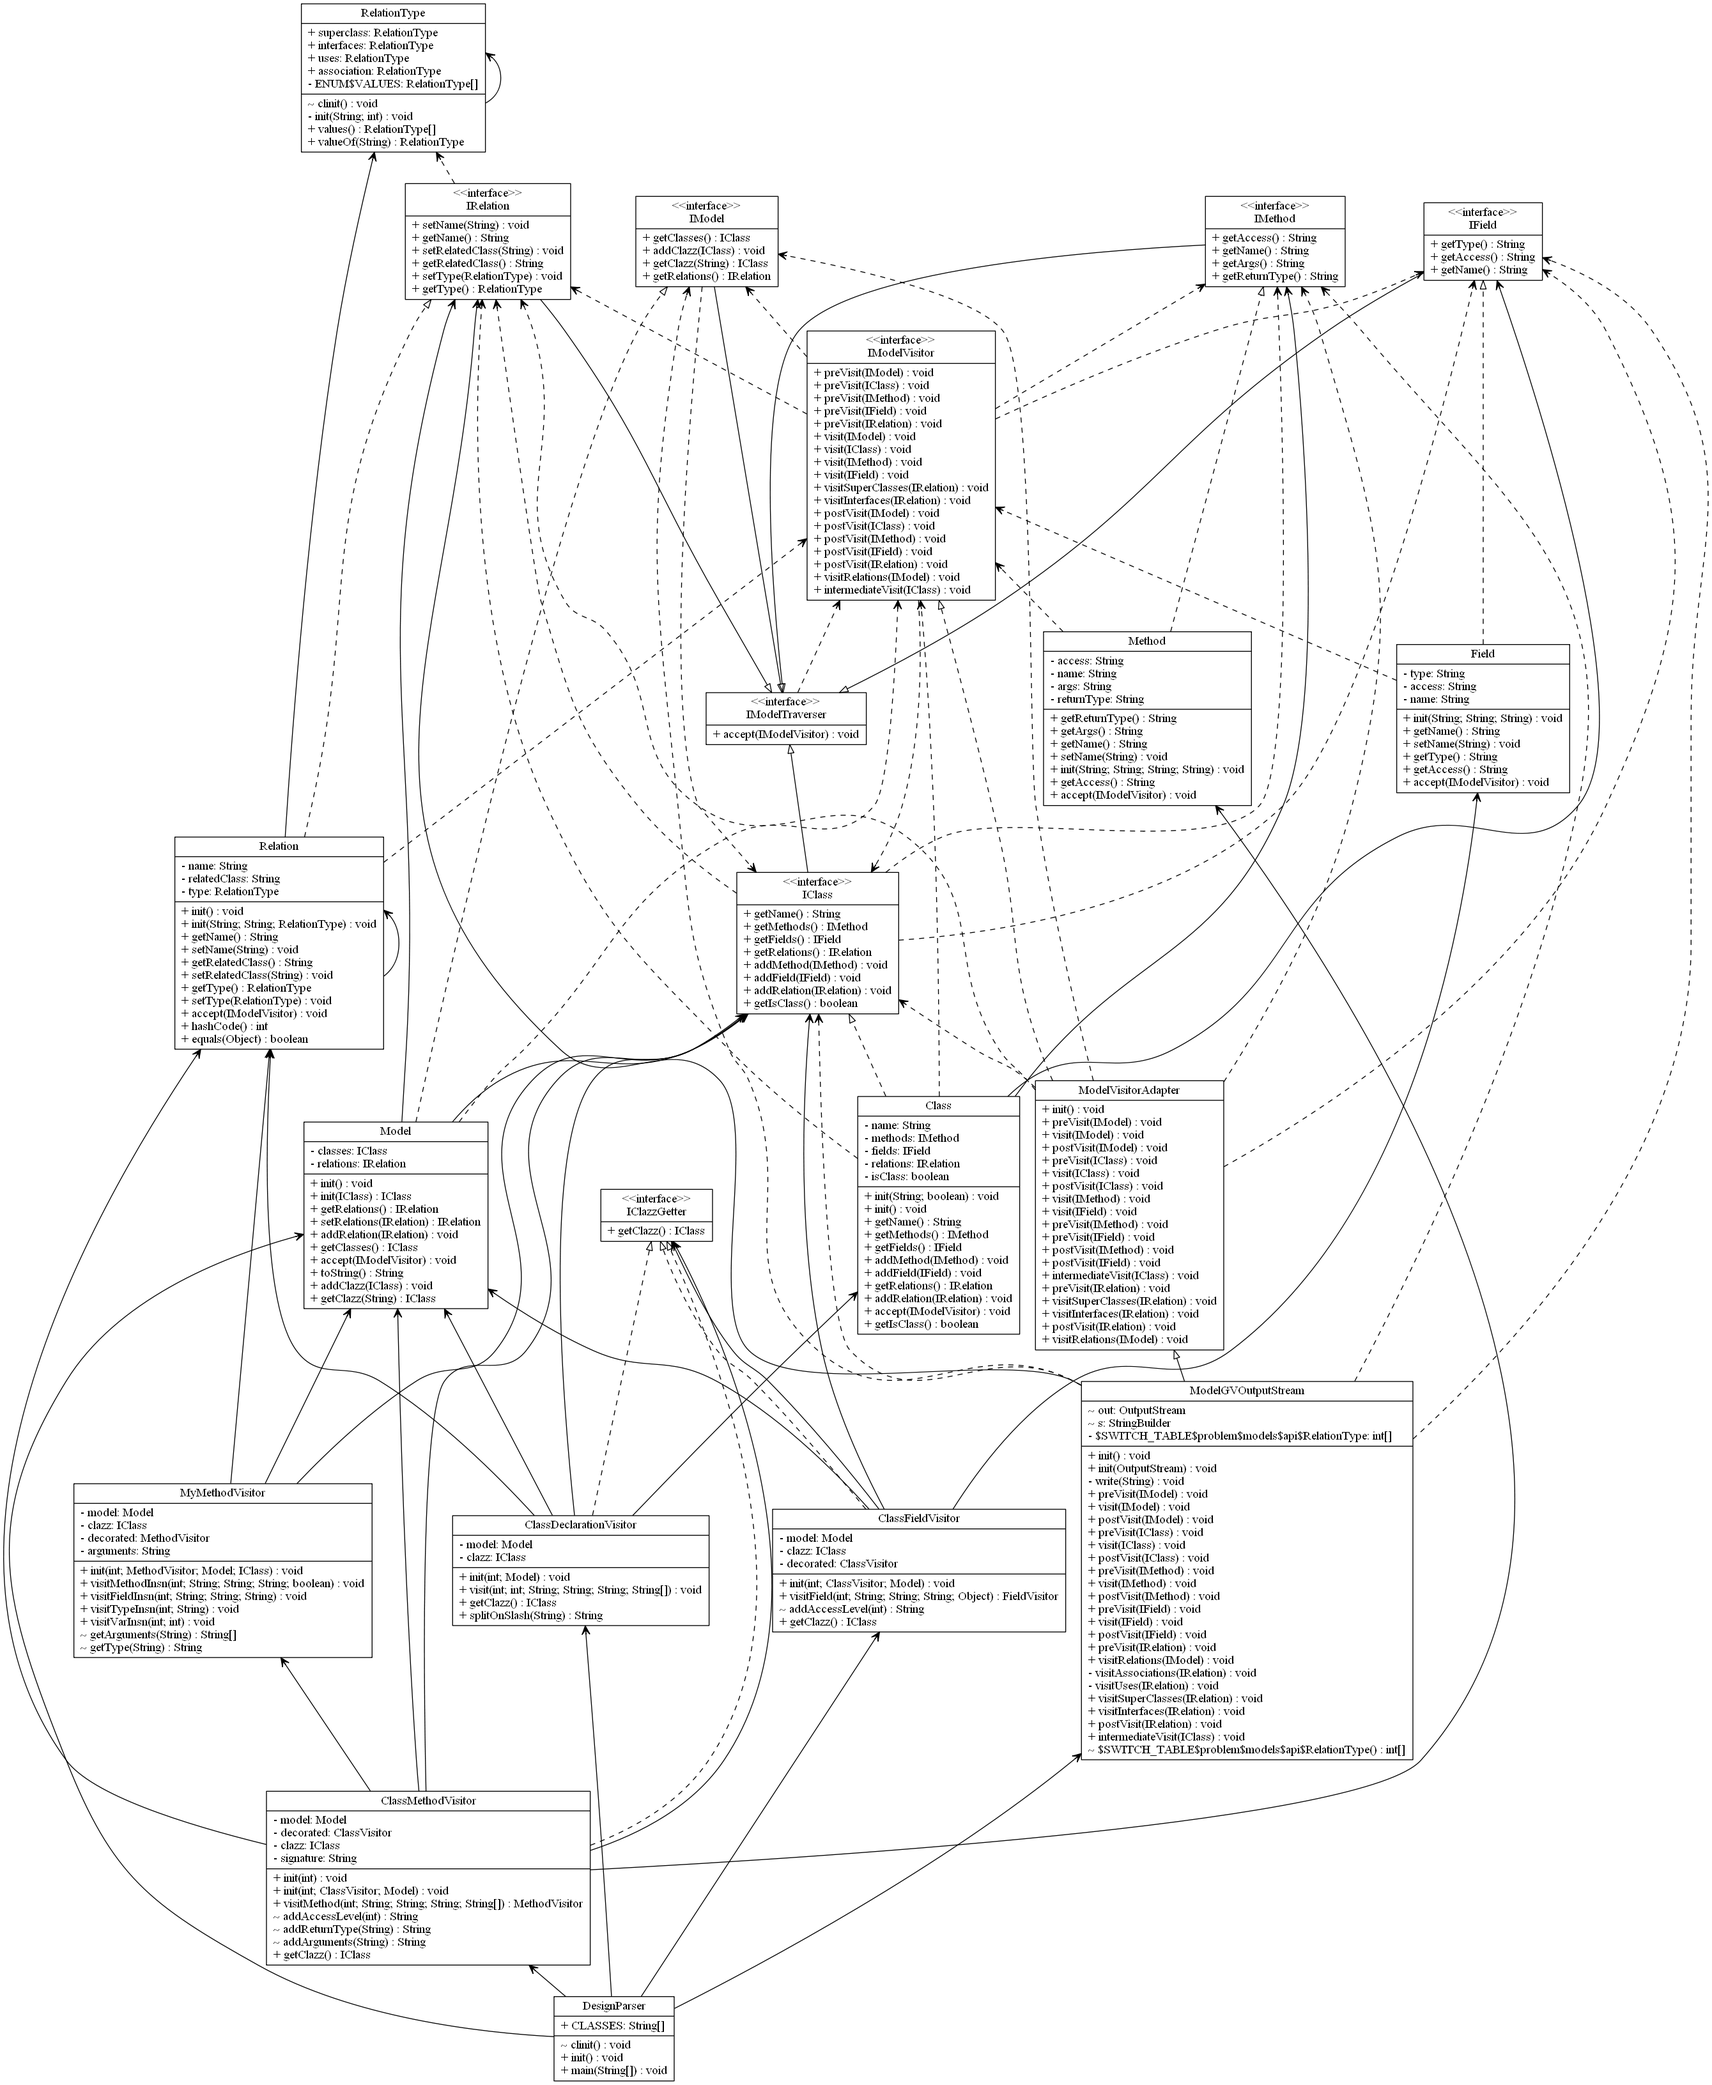
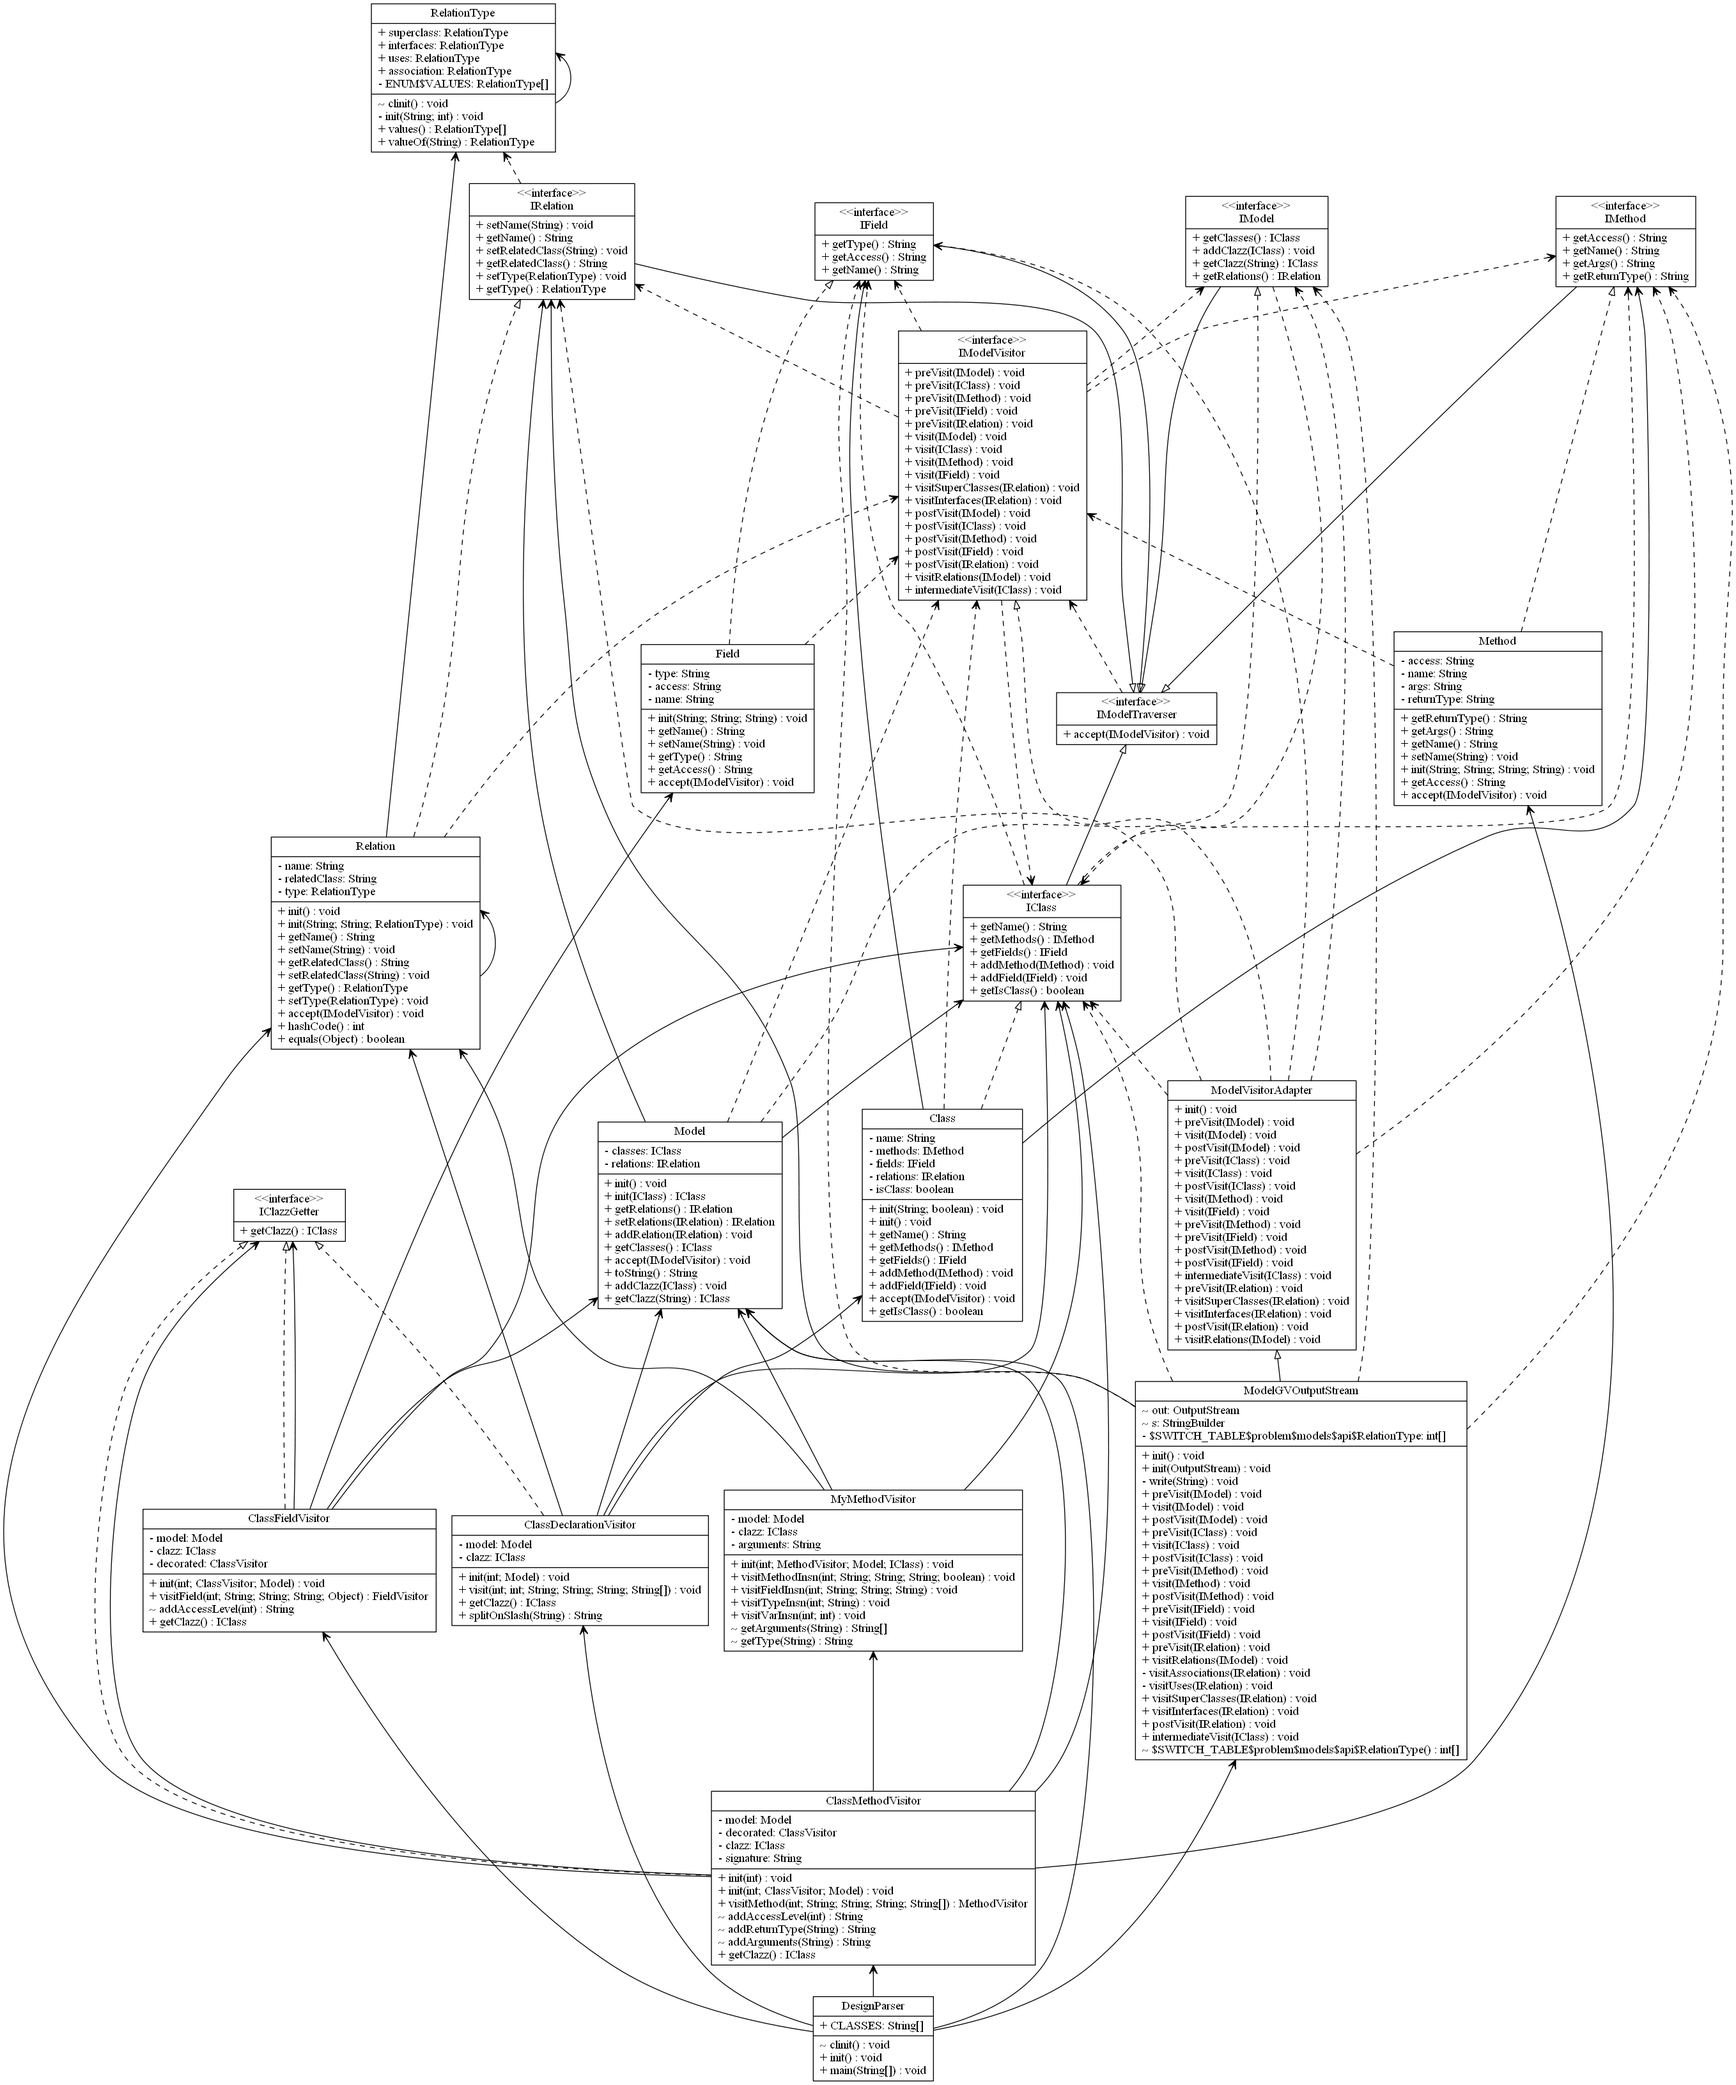
More cleaning up code
class has no need to know about relations anymore so I took out its
methods to get and add relations

diff --git a/src/problem/models/impl/ModelGVOutputStream.java b/src/problem/models/impl/ModelGVOutputStream.java
@@ -85,8 +85,8 @@ public class ModelGVOutputStream extends ModelVisitorAdapter {
 	@Override
 	public void visit(IMethod m) {
 		String[] returnSplit = m.getReturnType().split("\\.");
-		String returnType = returnSplit[returnSplit.length-1];
-		
+		String returnType = returnSplit[returnSplit.length - 1];
+
 		String s = String.format("%s %s(%s) : %s\\l", m.getAccess(), m.getName(), m.getArgs(), returnType);
 		this.write(s);
 	}
@@ -123,7 +123,7 @@ public class ModelGVOutputStream extends ModelVisitorAdapter {
 		this.write(comment);
 
 		for (IRelation r : relations) {
-			switch(r.getType()){
+			switch (r.getType()) {
 			case association:
 				visitAssociations(r);
 				break;
@@ -141,23 +141,11 @@ public class ModelGVOutputStream extends ModelVisitorAdapter {
 	}
 
 	private void visitAssociations(IRelation r) {
-		String s = "";		
+		String s = "";
 
 		s += "\n" + r.getName() + " -> " + r.getRelatedClass() + " [arrowhead = \"vee\"];";
 
-		/*Set<String> keys = r.getAssociations().keySet();
-		for (String k : keys) {
-			if (r.getAssociations().get(k).length > 0) {
-				String usedClass = r.getUses().get(k)[0];
-				String[] usedSplit = usedClass.split("/");
-				usedClass = usedSplit[usedSplit.length - 1];
-				s += "\n" + k + " -> " + usedClass + " [arrowhead = \"vee\"];";
-			}
-		}*/
 		this.write(s);
-//		if (s != "") {
-//			this.write(s);
-//		}
 
 	}
 
@@ -165,22 +153,8 @@ public class ModelGVOutputStream extends ModelVisitorAdapter {
 		String s = "";
 
 		s += "\n" + r.getName() + " -> " + r.getRelatedClass() + " [arrowhead = \"vee\", style = \"dashed\"];";
-		/*
-		Set<String> keys = r.getUses().keySet();
-		for (String k : keys) {
-			if (r.getUses().get(k).length > 0) {
-				String usedClass = r.getUses().get(k)[0];
-				String[] usedSplit = usedClass.split("/");
-				usedClass = usedSplit[usedSplit.length - 1];
-				s += "\n" + k + " -> " + usedClass + " [arrowhead = \"vee\", style = \"dashed\"];";
-			}
-		}*/
-		
+
 		this.write(s);
-//		
-//		if (s != ""){
-//			this.write(s);
-//		}
 
 	}
 
@@ -189,48 +163,21 @@ public class ModelGVOutputStream extends ModelVisitorAdapter {
 		String s = "";
 
 		String[] relatedSplit = r.getRelatedClass().split("/");
-		String split = relatedSplit[relatedSplit.length-1];
-		
-		s += "\n" + r.getName() + " -> " + split +  " [arrowhead = \"empty\"];";
-		
-		/*
-		Set<String> keys = r.getSuperClasses().keySet();
-		for (String k : keys) {
-			String superClass = r.getSuperClasses().get(k);
-			String[] superSplit = superClass.split("/");
-			superClass = superSplit[superSplit.length - 1];
-			s += "\n" + k + " -> " + superClass;
-			s += " [arrowhead = \"empty\"];";
-		}
+		String split = relatedSplit[relatedSplit.length - 1];
 
-		if (s != "") {
-			this.write(s);
-		}*/
+		s += "\n" + r.getName() + " -> " + split + " [arrowhead = \"empty\"];";
+
 		this.write(s);
 	}
 
 	@Override
 	public void visitInterfaces(IRelation r) {
-		
 
 		String[] relatedSplit = r.getRelatedClass().split("/");
-		String split = relatedSplit[relatedSplit.length-1];
-		
+		String split = relatedSplit[relatedSplit.length - 1];
+
 		String s = "\n" + r.getName() + " -> " + split + " [arrowhead = \"empty\", style = \"dashed\"];";
-		/*
-		String s = "";
-		Set<String> keys = r.getInterfaces().keySet();
-		for (String k : keys) {
-			if (r.getInterfaces().get(k).length > 0) {
-				String superClass = r.getInterfaces().get(k)[0];
-				String[] superSplit = superClass.split("/");
-				superClass = superSplit[superSplit.length - 1];
-				s += "\n" + k + " -> " + superClass + " [arrowhead = \"empty\", style = \"dashed\"];";
-			}
-		}
-		if (s != "") {
-			this.write(s);
-		}*/
+
 		this.write(s);
 	}
 

diff --git a/src/problem/models/impl/Model.java b/src/problem/models/impl/Model.java
@@ -41,15 +41,15 @@ public class Model implements IModel {
 
 		boolean inClasses = false;
 		for (String s : DesignParser.CLASSES) {
-			
+
 			String[] split = s.split("\\.");
-			s = split[split.length-1];
-			
+			s = split[split.length - 1];
+
 			if (r.getRelatedClass().equals(s)) {
 				inClasses = true;
 			}
 		}
-
+		// this is logic for when to add a relation to our UML and when not to
 		if (inClasses) {
 			if (this.relations.size() == 0) {
 				this.relations.add(r);
@@ -60,11 +60,14 @@ public class Model implements IModel {
 				if (r.equals(this.relations.get(i))) {
 					return;
 				}
-				
-				if(r.getName().equals(this.relations.get(i).getName()) && r.getRelatedClass().equals(this.relations.get(i).getRelatedClass())){
-					if (r.getType().equals(RelationType.uses) && this.relations.get(i).getType().equals(RelationType.association)){
+
+				if (r.getName().equals(this.relations.get(i).getName())
+						&& r.getRelatedClass().equals(this.relations.get(i).getRelatedClass())) {
+					if (r.getType().equals(RelationType.uses)
+							&& this.relations.get(i).getType().equals(RelationType.association)) {
 						return;
-					}else if(r.getType().equals(RelationType.association) && this.relations.get(i).getType().equals(RelationType.uses)){
+					} else if (r.getType().equals(RelationType.association)
+							&& this.relations.get(i).getType().equals(RelationType.uses)) {
 						this.relations.remove(i);
 						this.relations.add(r);
 						return;

diff --git a/src/problem/asm/MyMethodVisitor.java b/src/problem/asm/MyMethodVisitor.java
@@ -14,21 +14,19 @@ import problem.models.impl.Relation;
 public class MyMethodVisitor extends MethodVisitor {
 	private Model model;
 	private IClass clazz;
-	private MethodVisitor decorated;
 	private ArrayList<String> arguments;
 
 	public MyMethodVisitor(int api, MethodVisitor decorated, Model m, IClass clazz) {
 		super(api, decorated);
 		this.model = m;
 		this.clazz = clazz;
-		this.decorated = decorated;
 		this.arguments = new ArrayList<String>();
 	}
 
 	@Override
 	public void visitMethodInsn(int opcode, String owner, String name, String desc, boolean itf) {
 		super.visitMethodInsn(opcode, owner, name, desc, itf);
-		String[] args = getArguments(desc);
+		getArguments(desc);
 	}
 
 	@Override

diff --git a/src/problem/models/api/IClass.java b/src/problem/models/api/IClass.java
@@ -8,9 +8,7 @@ public interface IClass extends IModelTraverser {
 	public String getName();
 	public Collection<IMethod> getMethods();
 	public Collection<IField> getFields();
-	public Collection<IRelation> getRelations();
 	public void addMethod(IMethod m);
 	public void addField(IField f);
-	public void addRelation(IRelation r);
 	public boolean getIsClass();
 }

diff --git a/src/problem/models/impl/Class.java b/src/problem/models/impl/Class.java
@@ -57,16 +57,6 @@ public class Class implements IClass{
 	}
 
 	@Override
-	public Collection<IRelation> getRelations() {
-		return this.relations;
-	}
-
-	@Override
-	public void addRelation(IRelation r) {
-		this.relations.add(r);
-	}
-
-	@Override
 	public void accept(IModelVisitor v) {
 		v.preVisit(this);
 		v.visit(this);

diff --git a/src/problem/model/visitor/ModelVisitorAdapter.java b/src/problem/model/visitor/ModelVisitorAdapter.java
@@ -78,13 +78,11 @@ public class ModelVisitorAdapter implements IModelVisitor{
 	
 	@Override
 	public void visitSuperClasses(IRelation r) {
-		// TODO Auto-generated method stub
 		
 	}
 
 	@Override
 	public void visitInterfaces(IRelation r) {
-		// TODO Auto-generated method stub
 		
 	}
 
